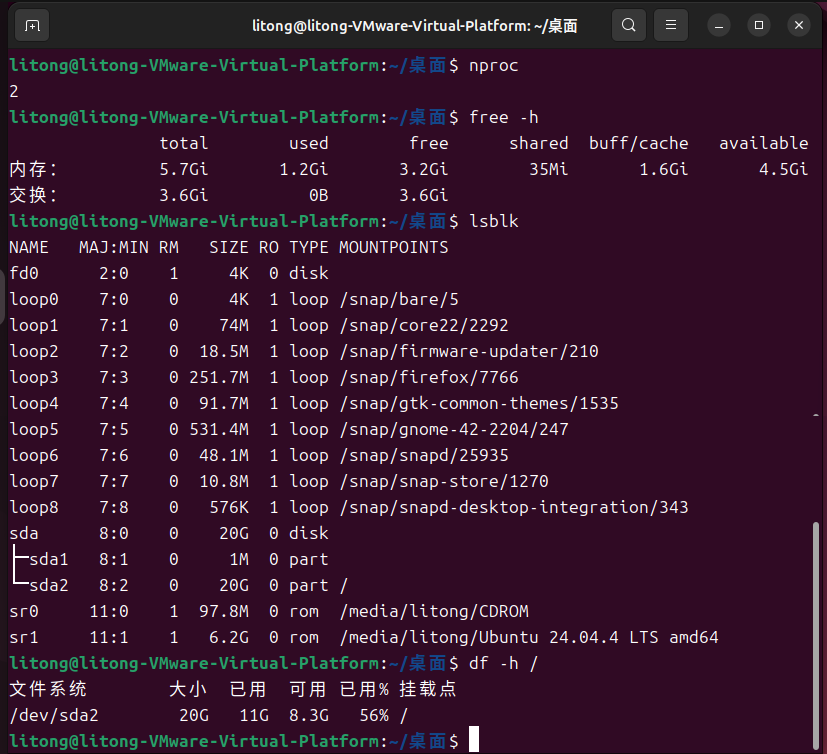
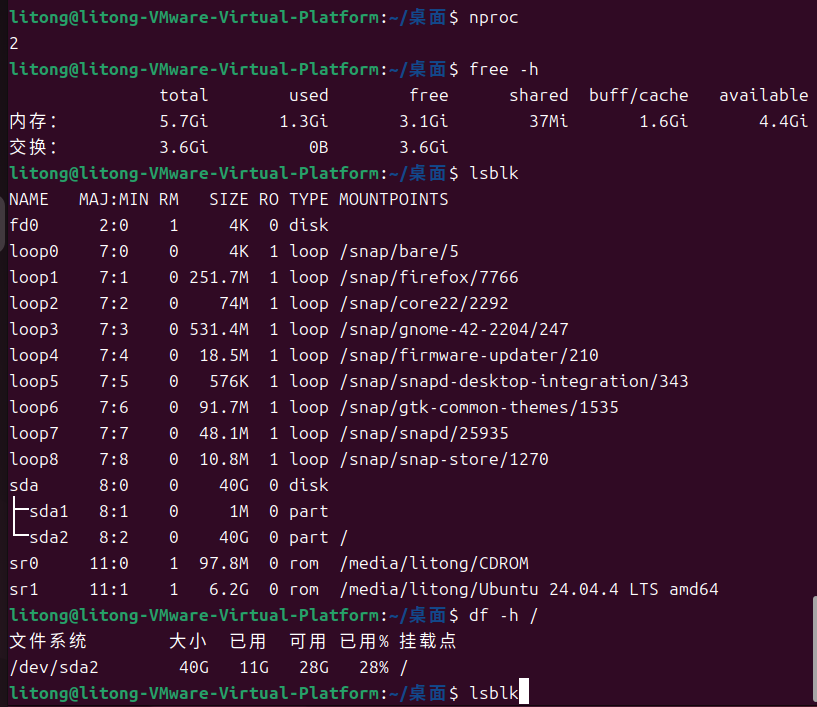
完成Lab1作业

Changed region(s): [[0.0, 0.0, 1.0, 1.0], [0.8568, 0.1245, 1.0, 0.2489]]

diff --git a/2024010027李彤/Lab1/Lab1.md b/2024010027李彤/Lab1/Lab1.md
@@ -179,8 +179,8 @@ df -h /
 | 选择的配置档位 |  课程推荐|
 | 虚拟 CPU 核心数 |2 |
 | 虚拟内存 |5.7Gi |
-| 虚磁盘容量 |20G |
-| 根分区可用空间 | 8.3G|
+| 虚磁盘容量 |40GB|
+| 根分区可用空间 | 28GB|
 | 资源分配是否符合对应档位 |是 |
 
 ![虚机资源](imgs/lab1-resources.png)
